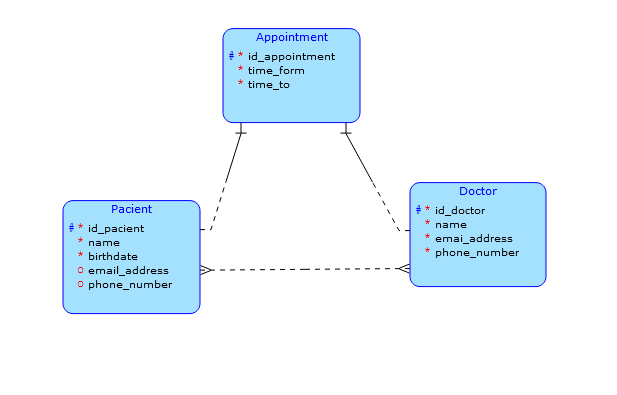
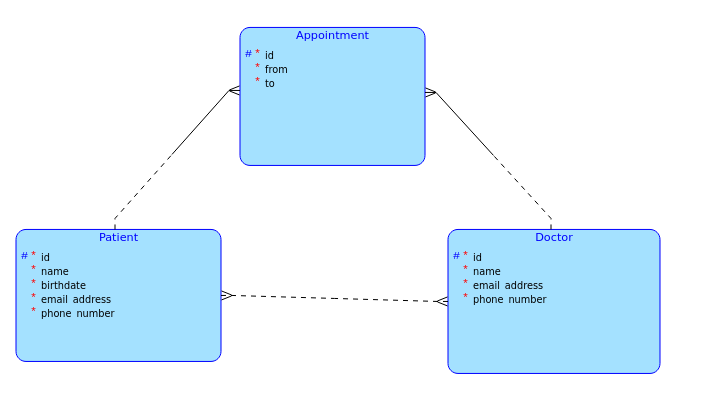
Fiddle with backend classes, to be more compatible with real DB. Create Testcontainers tests, that do not work yet. Fix insert-script.sql being not compatible.

diff --git a/src/test/java/cz/cvut/fit/tomanma9/tjvhospital/dao/DoctorRepositoryTest.java b/src/test/java/cz/cvut/fit/tomanma9/tjvhospital/dao/DoctorRepositoryTest.java
@@ -1,0 +1,101 @@
+package cz.cvut.fit.tomanma9.tjvhospital.dao;
+
+import cz.cvut.fit.tomanma9.tjvhospital.domain.Doctor;
+import org.junit.Before;
+import org.junit.jupiter.api.BeforeEach;
+import org.junit.jupiter.api.Test;
+import org.springframework.beans.factory.annotation.Autowired;
+import org.springframework.boot.test.autoconfigure.jdbc.AutoConfigureTestDatabase;
+import org.springframework.boot.test.autoconfigure.orm.jpa.DataJpaTest;
+import org.springframework.test.context.ActiveProfiles;
+import org.springframework.test.context.ContextConfiguration;
+import org.springframework.test.context.jdbc.Sql;
+import org.testcontainers.containers.GenericContainer;
+import org.testcontainers.images.builder.ImageFromDockerfile;
+import org.testcontainers.junit.jupiter.Container;
+import org.testcontainers.junit.jupiter.Testcontainers;
+
+import javax.swing.text.html.Option;
+import java.nio.file.Path;
+import java.util.List;
+import java.util.Optional;
+import java.util.Vector;
+
+import static org.junit.jupiter.api.Assertions.assertEquals;
+import static org.junit.jupiter.api.Assertions.assertTrue;
+
+// inspiration from: https://www.testcontainers.org/features/creating_images/
+// HEAVY inspiration from https://ajayiyengar.com/2020/05/18/integration-testing-using-testcontainers-in-a-spring-boot-2-jpa-application/
+@DataJpaTest
+@AutoConfigureTestDatabase( replace = AutoConfigureTestDatabase.Replace.NONE )
+@ContextConfiguration(initializers = { DoctorRepositoryTest.PropertiesInitializer.class })
+@Sql({ "classpath:create-script.sql" })
+public class DoctorRepositoryTest extends AbstractPostgresContainerBaseTest {
+
+    @Autowired
+    private DoctorRepository doctorRepository;
+
+    private Doctor doctor1;
+    private Doctor doctor2;
+
+    @BeforeEach
+    public void createDoctors() {
+        doctor1 = new Doctor(0L, "Tomáš", "tomas@hospital.cz", "111-111-111");
+        doctor2 = new Doctor(1L, "Jirka", "jirka@hospital.cz", "222-222-222L");
+
+    }
+
+    @Test
+    public void saveDoctorsAndFindById() {
+
+        doctorRepository.save(doctor1);
+        doctorRepository.save(doctor2);
+
+        Optional<Doctor> foundDoctorOptional1 = doctorRepository.findById(doctor1.getId());
+        Optional<Doctor> foundDoctorOptional2 = doctorRepository.findById(doctor2.getId());
+
+        assertTrue(foundDoctorOptional1.isPresent());
+        assertTrue(foundDoctorOptional2.isPresent());
+
+        Doctor foundDoctor1 = foundDoctorOptional1.get();
+        Doctor foundDoctor2 = foundDoctorOptional1.get();
+
+        assertEquals(doctor1, foundDoctor1);
+        assertEquals(doctor2, foundDoctor2);
+    }
+
+    @Test
+    public void saveDoctorsAndFindAll() {
+        doctorRepository.save(doctor1);
+        doctorRepository.save(doctor2);
+
+        List<Doctor> doctors = doctorRepository.findAll();
+
+        assertEquals(2, doctors.size());
+
+        assertTrue(doctors.contains(doctor1));
+        assertTrue(doctors.contains(doctor2));
+    }
+
+    @Test
+    public void saveDoctorsAndDelete() {
+        System.out.println(postgresContainer.getLogs());
+        doctorRepository.save(doctor1);
+        doctorRepository.save(doctor2);
+
+        doctorRepository.deleteById(doctor1.getId());
+        Optional<Doctor> deletedDoctor1 = doctorRepository.findById(doctor1.getId());
+        assertTrue(deletedDoctor1.isEmpty());
+
+        Optional<Doctor> foundDoctor2 = doctorRepository.findById(doctor2.getId());
+        assertTrue(foundDoctor2.isPresent());
+
+        doctorRepository.deleteById(doctor2.getId());
+        Optional<Doctor> deletedDoctor2 = doctorRepository.findById(doctor2.getId());
+        assertTrue(deletedDoctor2.isEmpty());
+
+    }
+
+
+
+}

diff --git a/src/test/java/cz/cvut/fit/tomanma9/tjvhospital/dao/AbstractPostgresContainerBaseTest.java b/src/test/java/cz/cvut/fit/tomanma9/tjvhospital/dao/AbstractPostgresContainerBaseTest.java
@@ -1,0 +1,43 @@
+package cz.cvut.fit.tomanma9.tjvhospital.dao;
+
+// HEAVY inspiration from https://ajayiyengar.com/2020/05/18/integration-testing-using-testcontainers-in-a-spring-boot-2-jpa-application/
+
+import org.junit.platform.commons.logging.LoggerFactory;
+import org.springframework.boot.test.util.TestPropertyValues;
+import org.springframework.context.ApplicationContextInitializer;
+import org.springframework.context.ConfigurableApplicationContext;
+import org.testcontainers.containers.PostgreSQLContainer;
+import org.testcontainers.utility.MountableFile;
+
+public abstract class AbstractPostgresContainerBaseTest {
+
+    protected static final PostgreSQLContainer postgresContainer;
+
+    static {
+
+        postgresContainer = new PostgreSQLContainer("postgres:15.1")
+                .withDatabaseName("hospital")
+                .withUsername("hospital")
+                .withPassword("hospital");
+        postgresContainer.withInitScript("create-script.sql");
+                //.withLogConsumer();
+                //.withCopyFileToContainer(MountableFile.forClasspathResource("create-script.sql"), "/docker-entrypoint-initdb.d/");
+        System.out.println(postgresContainer.getLogs());
+        postgresContainer.start();
+        System.out.println("\n\nAFTERSTAERT\n\n");
+        System.out.println(postgresContainer.getLogs());
+    }
+
+    static class PropertiesInitializer implements ApplicationContextInitializer<ConfigurableApplicationContext> {
+
+        // applicationContextInitializer is capable of setting ApplicationContext for our tests
+        public void initialize(ConfigurableApplicationContext configurableApplicationContext) {
+            TestPropertyValues
+                    .of("spring.datasource.driver-class.name=" + postgresContainer.getDriverClassName(),
+                            "spring.datasource.rul=" + postgresContainer.getJdbcUrl(),
+                            "spring.datasource.username=" + postgresContainer.getUsername(),
+                            "spring.datasource.password=" + postgresContainer.getPassword())
+                    .applyTo(configurableApplicationContext.getEnvironment());
+        }
+    }
+}

diff --git a/src/test/java/cz/cvut/fit/tomanma9/tjvhospital/business/DoctorServiceUnitTest.java b/src/test/java/cz/cvut/fit/tomanma9/tjvhospital/business/DoctorServiceUnitTest.java
@@ -1,56 +1,25 @@
 package cz.cvut.fit.tomanma9.tjvhospital.business;
 
 import cz.cvut.fit.tomanma9.tjvhospital.dao.AppointmentRepository;
+import cz.cvut.fit.tomanma9.tjvhospital.dao.DoctorRepository;
 import cz.cvut.fit.tomanma9.tjvhospital.dao.PatientRepository;
+import cz.cvut.fit.tomanma9.tjvhospital.domain.Doctor;
 import org.junit.jupiter.api.Test;
+import org.mockito.Mock;
 import org.springframework.beans.factory.annotation.Autowired;
 import org.springframework.boot.test.mock.mockito.MockBean;
 
 import static org.junit.jupiter.api.Assertions.*;
 class DoctorServiceUnitTest {
+    // testing all CRUD
 
-    @Autowired
+    @Mock
     private DoctorService doctorService;
 
-    @MockBean
-    private AppointmentRepository appointmentRepository;
-
-    @MockBean
-    private PatientRepository userRepository;
-
+    @Mock
+    private DoctorRepository doctorRepository;
     @Test
-    void shouldCancelMultipleAppointments() { //think about cascading
-        // preparation
-
-
-        // mock
-
-
-        // test
+    void create() {
     }
 
-    @Test
-    void shouldNotCancelAnything() {
-
-    }
-
-    @Test
-    void receivesInvalidDoctorId() {
-
-    }
-
-    @Test
-    void receivesInvalidDate() { //idk if it is possible
-
-    }
-
-    @Test
-    void receivesTimeBetweenTwoDates() { // idk what the response should be here
-
-    }
-
-    @Test
-    void receivesOldDate() { //old id questionable naming (something like expired could be better?)
-
-    }
 }

diff --git a/src/main/java/cz/cvut/fit/tomanma9/tjvhospital/business/DoctorService.java b/src/main/java/cz/cvut/fit/tomanma9/tjvhospital/business/DoctorService.java
@@ -1,14 +1,11 @@
 package cz.cvut.fit.tomanma9.tjvhospital.business;
 
-import cz.cvut.fit.tomanma9.tjvhospital.dao.AppointmentRepository;
 import cz.cvut.fit.tomanma9.tjvhospital.dao.DoctorRepository;
 import cz.cvut.fit.tomanma9.tjvhospital.domain.Appointment;
 import cz.cvut.fit.tomanma9.tjvhospital.domain.Doctor;
-import org.springframework.data.repository.CrudRepository;
 import org.springframework.stereotype.Service;
 
 import java.time.LocalDate;
-import java.time.LocalDateTime;
 import java.util.List;
 import java.util.Optional;
 
@@ -23,6 +20,7 @@ public class DoctorService extends AbstractCrudService<Doctor, Long> {
         this.appointmentService = appointmentService;
     }
 
+    // needs to be removed and functionality moved into FrontEnd
     public void cancelAllAppointmentsByDate(Long doctorId, LocalDate date) {
         Optional<Doctor> doctorOptional = repository.findById(doctorId);
         if (doctorOptional.isEmpty())

diff --git a/src/main/java/cz/cvut/fit/tomanma9/tjvhospital/domain/Doctor.java b/src/main/java/cz/cvut/fit/tomanma9/tjvhospital/domain/Doctor.java
@@ -3,18 +3,20 @@ package cz.cvut.fit.tomanma9.tjvhospital.domain;
 import javax.persistence.*;
 import java.util.*;
 
-@Entity
+@Entity(name = "doctor")
 public class Doctor implements DomainEntity<Long> {
     @Id
     @GeneratedValue(strategy = GenerationType.AUTO)
+    @Column(name = "id_doctor")
     private Long id;
     private String name;
     private String emailAddress;
     private String phoneNumber;
     @ManyToMany(cascade = CascadeType.ALL)
     @JoinTable(
-            joinColumns = @JoinColumn(name = "id_doctor"),
-            inverseJoinColumns = @JoinColumn(name = "id_patient")
+            joinColumns = @JoinColumn(name = "id_patient"),
+            inverseJoinColumns = @JoinColumn(name = "id_doctor"),
+            name = "doctor_patient"
     )
     private final Set<Patient> patients = new HashSet<>();
     @OneToMany

diff --git a/src/main/java/cz/cvut/fit/tomanma9/tjvhospital/domain/Patient.java b/src/main/java/cz/cvut/fit/tomanma9/tjvhospital/domain/Patient.java
@@ -4,16 +4,18 @@ import javax.persistence.*;
 import java.time.LocalDateTime;
 import java.util.*;
 
-@Entity
+@Entity(name = "patient")
 public class Patient implements DomainEntity<Long> {
     @Id
     @GeneratedValue(strategy = GenerationType.AUTO)
+    @Column(name = "id_patient")
     private Long id;
     private String name;
     private LocalDateTime birthdate;
     private String emailAddress;
     private String phoneNumber;
 
+    // mapped by is looking for Java attribute
     @ManyToMany(mappedBy = "patients")
     private final Set<Doctor> doctors = new HashSet<>();
 

diff --git a/src/main/java/cz/cvut/fit/tomanma9/tjvhospital/dao/AppointmentRepository.java b/src/main/java/cz/cvut/fit/tomanma9/tjvhospital/dao/AppointmentRepository.java
@@ -1,9 +1,10 @@
 package cz.cvut.fit.tomanma9.tjvhospital.dao;
 
 import cz.cvut.fit.tomanma9.tjvhospital.domain.Appointment;
+import org.springframework.data.jpa.repository.JpaRepository;
 import org.springframework.data.repository.CrudRepository;
 import org.springframework.stereotype.Repository;
 
 @Repository
-public interface AppointmentRepository extends CrudRepository<Appointment, Long> {
+public interface AppointmentRepository extends JpaRepository<Appointment, Long> {
 }

diff --git a/src/main/java/cz/cvut/fit/tomanma9/tjvhospital/dao/PatientRepository.java b/src/main/java/cz/cvut/fit/tomanma9/tjvhospital/dao/PatientRepository.java
@@ -1,9 +1,10 @@
 package cz.cvut.fit.tomanma9.tjvhospital.dao;
 
 import cz.cvut.fit.tomanma9.tjvhospital.domain.Patient;
+import org.springframework.data.jpa.repository.JpaRepository;
 import org.springframework.data.repository.CrudRepository;
 import org.springframework.stereotype.Repository;
 
 @Repository
-public interface PatientRepository extends CrudRepository<Patient, Long> {
+public interface PatientRepository extends JpaRepository<Patient, Long> {
 }

diff --git a/src/main/java/cz/cvut/fit/tomanma9/tjvhospital/dao/DoctorRepository.java b/src/main/java/cz/cvut/fit/tomanma9/tjvhospital/dao/DoctorRepository.java
@@ -1,9 +1,10 @@
 package cz.cvut.fit.tomanma9.tjvhospital.dao;
 
 import cz.cvut.fit.tomanma9.tjvhospital.domain.Doctor;
+import org.springframework.data.jpa.repository.JpaRepository;
 import org.springframework.data.repository.CrudRepository;
 import org.springframework.stereotype.Repository;
 
 @Repository
-public interface DoctorRepository extends CrudRepository<Doctor, Long> {
+public interface DoctorRepository extends JpaRepository<Doctor, Long> {
 }

diff --git a/src/main/java/cz/cvut/fit/tomanma9/tjvhospital/domain/Appointment.java b/src/main/java/cz/cvut/fit/tomanma9/tjvhospital/domain/Appointment.java
@@ -4,11 +4,12 @@ import javax.persistence.*;
 import java.time.LocalDateTime;
 import java.util.Objects;
 
-@Entity
+@Entity(name = "appointment")
 public class Appointment implements DomainEntity<Long> {
 
     @Id
     @GeneratedValue(strategy = GenerationType.AUTO)
+    @Column(name = "id_appointment")
     private Long id;
     @ManyToOne
     private Patient patient;

diff --git a/src/main/java/cz/cvut/fit/tomanma9/tjvhospital/business/AppointmentService.java b/src/main/java/cz/cvut/fit/tomanma9/tjvhospital/business/AppointmentService.java
@@ -2,7 +2,6 @@ package cz.cvut.fit.tomanma9.tjvhospital.business;
 
 import cz.cvut.fit.tomanma9.tjvhospital.dao.AppointmentRepository;
 import cz.cvut.fit.tomanma9.tjvhospital.domain.Appointment;
-import org.springframework.data.repository.CrudRepository;
 import org.springframework.stereotype.Service;
 
 import java.util.Collection;

diff --git a/src/main/java/cz/cvut/fit/tomanma9/tjvhospital/business/PatientService.java b/src/main/java/cz/cvut/fit/tomanma9/tjvhospital/business/PatientService.java
@@ -2,7 +2,6 @@ package cz.cvut.fit.tomanma9.tjvhospital.business;
 
 import cz.cvut.fit.tomanma9.tjvhospital.dao.PatientRepository;
 import cz.cvut.fit.tomanma9.tjvhospital.domain.Patient;
-import org.springframework.data.repository.CrudRepository;
 import org.springframework.stereotype.Service;
 
 @Service
